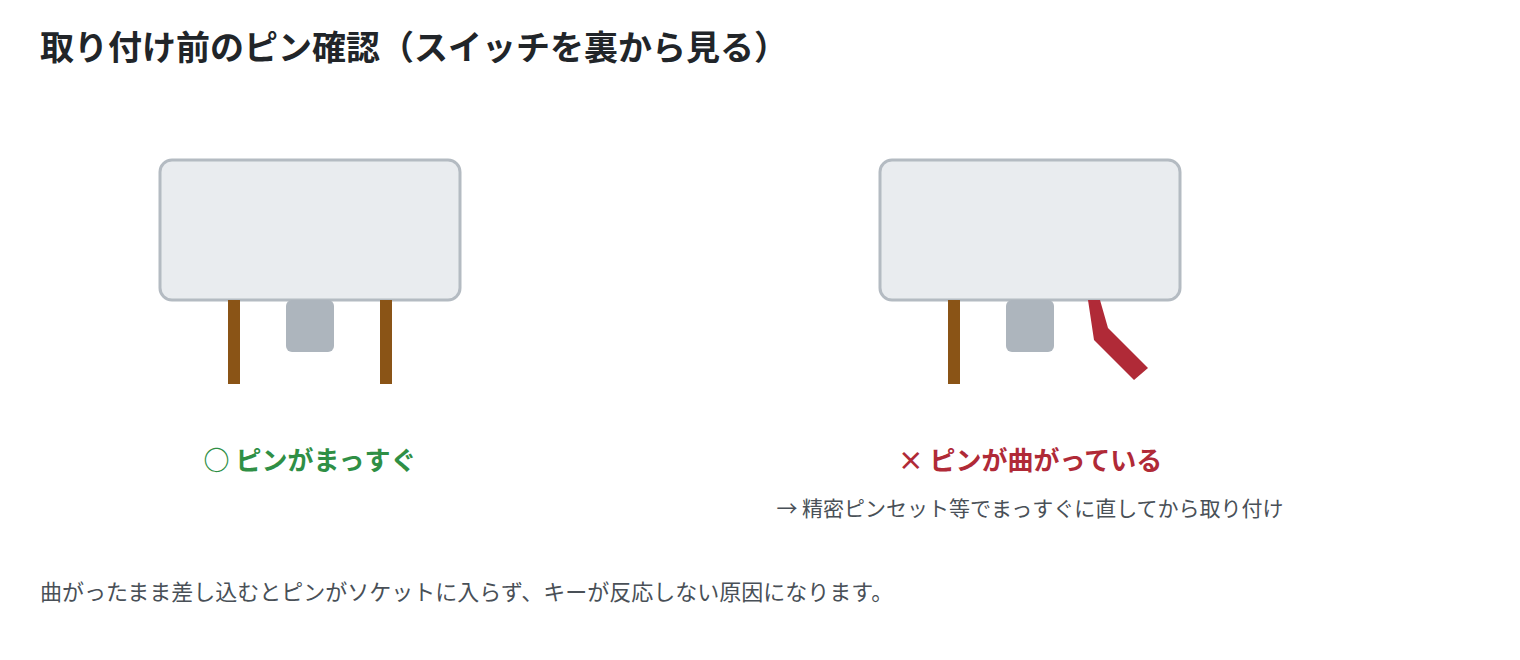
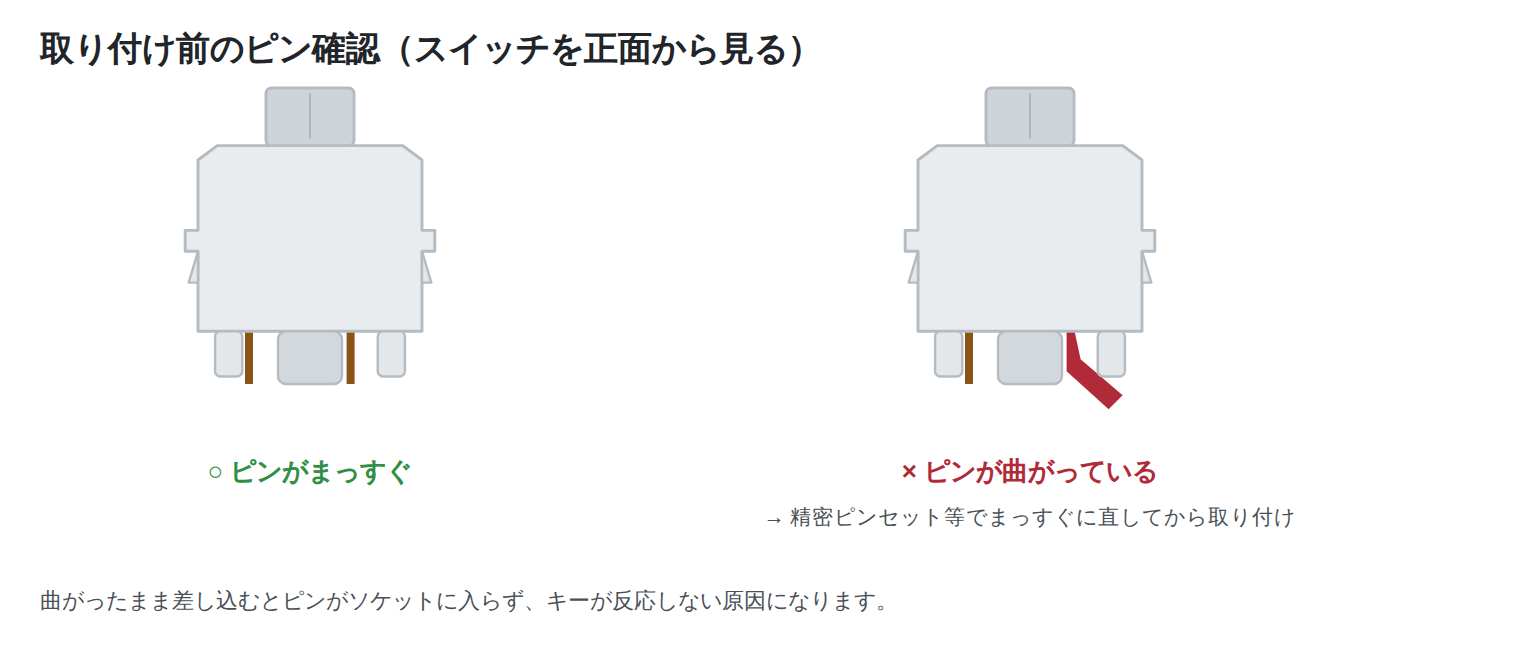
docs: スイッチ図を三面図由来の実形状に差し替え、共通部品化
手描きだったスイッチ描画を、docs/images/cherry-mx-switch-views.svg の
正面図から取り出した実形状（6px=1mm）に置き換えた。ピンの左右非対称も
実物どおりになる。

形状は tools/keydiagram/parts/mx-switch.svg をマスターとし、sync_parts.py で
switch-pins / switch-mount / build-exploded の3図へ複製する。GitHub上のSVGは
外部ファイル参照が効かないため各図にインライン複製する必要があり、--check で
ズレを検出できるようにした。ピンは図ごとに描き分けるため部品に含めない。

Claude-Session: https://claude.ai/code/session_01KXeZwnrWZC9mufsK7vrEwo

diff --git a/tools/keydiagram/sync_parts.py b/tools/keydiagram/sync_parts.py
@@ -1,0 +1,92 @@
+#!/usr/bin/env python3
+"""図の共通部品（parts/*.svg）を各図へ複製・検証する。
+
+GitHub 上で表示される SVG は外部ファイルを参照できない（`<use href="other.svg#id">`
+が効かない）ため、共通部品は各図にインラインで複製する必要がある。
+このスクリプトはマスター（parts/）を正として複製し、ズレを防ぐ。
+
+    python3 sync_parts.py           # マスターの内容を各図へ反映
+    python3 sync_parts.py --check   # ズレがないか検証のみ（CI・レビュー用）
+
+複製先の図は、対応する部品を次のマーカーで囲んでおく:
+
+    <!-- parts:<部品名>:begin -->
+    ...（マスターからコピーされる。手で編集しない）...
+    <!-- parts:<部品名>:end -->
+"""
+import argparse
+import os
+import re
+import sys
+
+HERE = os.path.dirname(os.path.abspath(__file__))
+IMAGES = os.path.normpath(os.path.join(HERE, '..', '..', 'docs', 'images'))
+
+# 部品名 -> (マスターファイル, 複製先の図)
+PARTS = {
+    'mx-switch-front': (
+        os.path.join(HERE, 'parts', 'mx-switch.svg'),
+        ['switch-pins.svg', 'switch-mount.svg', 'build-exploded.svg'],
+    ),
+}
+
+
+def block_re(name):
+    return re.compile(
+        r'(?P<begin><!-- parts:%s:begin -->)(?P<body>.*?)(?P<end><!-- parts:%s:end -->)'
+        % (re.escape(name), re.escape(name)),
+        re.S)
+
+
+def read_master(name, path):
+    m = block_re(name).search(open(path).read())
+    if not m:
+        raise SystemExit(f'マスターに {name} のマーカーがありません: {path}')
+    return m.group('body')
+
+
+def main():
+    ap = argparse.ArgumentParser(description=__doc__,
+                                 formatter_class=argparse.RawDescriptionHelpFormatter)
+    ap.add_argument('--check', action='store_true', help='書き換えず、ズレの有無だけ報告する')
+    args = ap.parse_args()
+
+    stale, synced = [], []
+    for name, (master_path, targets) in PARTS.items():
+        body = read_master(name, master_path)
+        pattern = block_re(name)
+        for target in targets:
+            path = os.path.join(IMAGES, target)
+            text = open(path).read()
+            m = pattern.search(text)
+            if not m:
+                raise SystemExit(f'{target} に {name} のマーカーがありません')
+            if m.group('body') == body:
+                continue
+            if args.check:
+                stale.append(f'{target} ({name})')
+                continue
+            open(path, 'w').write(
+                text[:m.start()] + m.group('begin') + body + m.group('end') + text[m.end():])
+            synced.append(f'{target} ({name})')
+
+    if args.check:
+        if stale:
+            print('NG: マスターと内容が異なる図があります:', file=sys.stderr)
+            for s in stale:
+                print(f'  - {s}', file=sys.stderr)
+            print('  `python3 sync_parts.py` を実行して同期してください。', file=sys.stderr)
+            return 1
+        print('OK: すべての図がマスターと一致しています')
+        return 0
+
+    if synced:
+        for s in synced:
+            print('updated', s)
+    else:
+        print('変更なし（すべて最新）')
+    return 0
+
+
+if __name__ == '__main__':
+    sys.exit(main())
